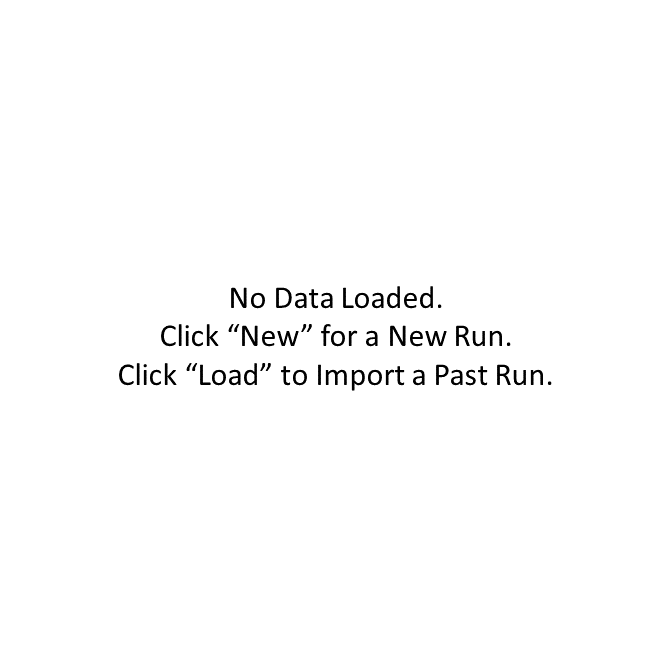
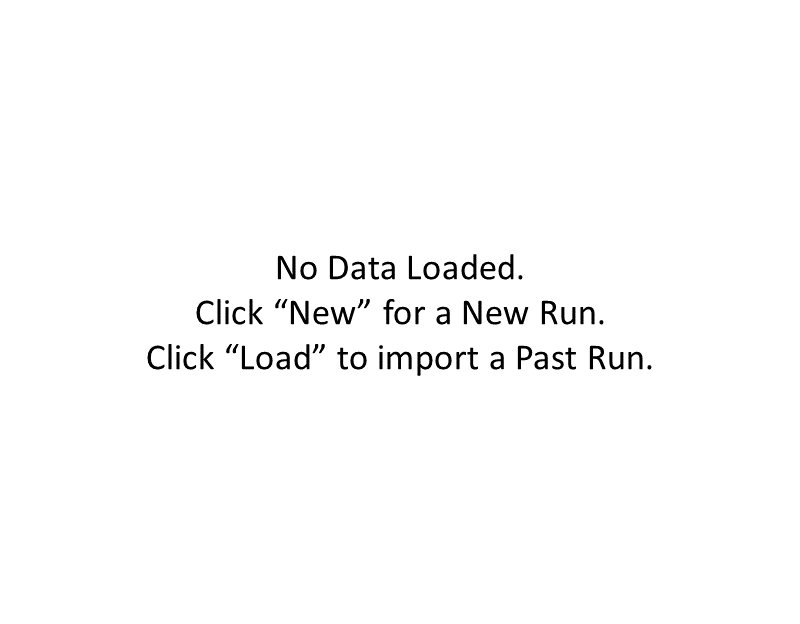
Reduced size of main window; Several other small fixes and tweaks

Changed region(s): [[0.1562, 0.3958, 0.8125, 0.609]]

diff --git a/Frontend/SEAQT_GUI.py b/Frontend/SEAQT_GUI.py
@@ -99,8 +99,8 @@ class SEAQTGui():
     INPUT_PARAMETER_INNER_FRAME_PAD_Y = 5
     INPUT_BOTTOM_BUTTON_PAD_X = 5
 
-    DATA_VIEW_FRAME_WIDTH = 850
-    DATA_VIEW_FRAME_HEIGHT = 700
+    DATA_VIEW_FRAME_WIDTH = 800
+    DATA_VIEW_FRAME_HEIGHT = 628
     DATA_VIEW_FRAME_PAD_X = 5
     DATA_VIEW_FRAME_PAD_Y = 25
 
@@ -146,7 +146,7 @@ class SEAQTGui():
         'Electron Energy',
         'Electrical Conductivity',
         'Seebeck Coefficient',
-        'Phonon Tempertaure',
+        'Phonon Temperature',
         'Phonon Energy',
         'Thermal Conductivity',
         'ZT Factor'
@@ -168,7 +168,7 @@ class SEAQTGui():
         # Create the Tkinter root window
         self.tkinter_root = Tk()
         self.tkinter_root.title('SEAQT GUI')
-        self.tkinter_root.resizable(False, False)
+        # self.tkinter_root.resizable(False, False)
 
         # Data output directory (class variable)
         self.export_directory = StringVar()
@@ -257,10 +257,10 @@ class SEAQTGui():
         menu_option_frame = ttk.LabelFrame(
             self.tkinter_root,
             text='Menu',
-            padding=10,
+            padding=5,
             relief=SOLID
         )
-        menu_option_frame.grid(column=0, row=0, padx=self.MENU_FRAME_PAD_X, pady=self.DATA_VIEW_FRAME_PAD_Y, sticky=N)
+        menu_option_frame.grid(column=0, row=0, padx=10, pady=10, sticky=N)
 
         # New run button
         self.new_run_button = ttk.Button(
@@ -326,20 +326,20 @@ class SEAQTGui():
             width=self.MENU_BUTTON_WIDTH
         ).grid(column=0, row=6, padx=self.MENU_BUTTON_PAD_X, pady=self.MENU_BUTTON_PAD_Y)
 
-        # Copyright
-        ttk.Label(
-            self.tkinter_root,
-            text='© 2023'
-        ).grid(column=1, row=1)
+        # # Copyright
+        # ttk.Label(
+        #     self.tkinter_root,
+        #     text='© 2023'
+        # ).grid(column=1, row=1)
 
         # ~~~~~~~~~~~~~~~~~~~~~~~~~~~~~~~~~~~~~~~~~~~~~~~~~~~~~~~~~~~~~~~~~~~ #
 
         # Create right panel
         self.right_menu_frame = ttk.Frame(
             self.tkinter_root,
-            padding=10
+            padding=5
         )
-        self.right_menu_frame.grid(column=2, row=0, padx=10, pady=15, sticky=N)
+        self.right_menu_frame.grid(column=2, row=0, padx=10, pady=0, sticky=N)
 
         # ~~~~~~~~~~~~~~~~~~~~~~~~~~~~~~~~~~~~~~~~~~~~~~~~~~~~~~~~~~~~~~~~~~~ #
 
@@ -352,7 +352,7 @@ class SEAQTGui():
         self.block_plot_selection_frame = ttk.LabelFrame(
             self.right_menu_frame,
             text='Blocks to Plot',
-            padding=10,
+            padding=5,
             relief=SOLID
         )
         self.block_plot_selection_frame.grid(column=0, row=1, pady=5)
@@ -376,18 +376,19 @@ class SEAQTGui():
         s.configure('white.TFrame', background='white')
         data_view_frame = ttk.Frame(
             self.tkinter_root,
-            padding=10,
+            padding=5,
             width=self.DATA_VIEW_FRAME_WIDTH,
             height=self.DATA_VIEW_FRAME_HEIGHT,
-            relief=SOLID,
+            # relief=SOLID,
             style='white.TFrame'
         )
-        data_view_frame.grid(column=1, row=0, padx=self.DATA_VIEW_FRAME_PAD_X, pady=self.DATA_VIEW_FRAME_PAD_Y, sticky=N)
+        data_view_frame.grid(column=1, row=0, padx=5, pady=5, sticky=N)
         data_view_frame.grid_propagate(False)
 
         # Create data image (default "no data loaded")
         self.data_frame_image_frame = ttk.Label(
             data_view_frame,
+            borderwidth=0,
             justify=CENTER
         )
         self.data_frame_image_frame.place(relx=0.5, rely=0.5, anchor=CENTER)
@@ -407,7 +408,7 @@ class SEAQTGui():
         self.radio_button_frame = ttk.LabelFrame(
             self.right_menu_frame,
             text='Select Plot',
-            padding=10,
+            padding=5,
             relief=SOLID
         )
         self.radio_button_frame.grid(column=0, row=0, pady=5)
@@ -498,7 +499,7 @@ class SEAQTGui():
         # Create a new pop-up window and take control of input
         input_window = Toplevel(self.tkinter_root)
         input_window.title('Load Data and Set Parameters')
-        input_window.resizable(False, False)
+        # input_window.resizable(False, False)
         input_window.grab_set()
 
         # ~~~~~~~~~~~~~~~~~~~~~~~~~~~~~~~~~~~~~~~~~~~~~~~~~~~~~~~~~~~~~~~~~~~ #
@@ -1716,6 +1717,7 @@ class SEAQTGui():
         try:
             # Open the desired image
             loaded_image = Image.open(f'Figures/{filenum}.png')
+            # loaded_image = loaded_image.resize((600, 600), Image.NEAREST)
             self.data_frame_image = ImageTk.PhotoImage(loaded_image)
 
             if filenum > 0 and filenum < 10:
@@ -1730,7 +1732,7 @@ class SEAQTGui():
                 self.pop_up_error('Failed to open image/plot. Data may be missing or corrupted.')
 
         # Set the image in the frame
-        self.data_frame_image_frame.configure(image=self.data_frame_image)
+        self.data_frame_image_frame.configure(image=self.data_frame_image, borderwidth=0)
 
 
     def replot(self) -> bool:
@@ -1881,7 +1883,7 @@ class SEAQTGui():
         '''
         export_window = Toplevel(self.tkinter_root)
         export_window.title('Export Generated Plots')
-        export_window.resizable(False, False)
+        # export_window.resizable(False, False)
         export_window.grab_set()
 
         ###################################
